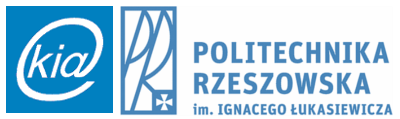
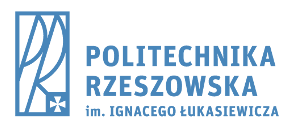
Updated Rzeszow team

diff --git a/rzeszow.html b/rzeszow.html
@@ -238,14 +238,19 @@ Steps to show on site
        <h3>Partners</h3>
 
        <p>Rails Girls Rzeszów is co-organized with our awesome partners.</p><p>
-         <p>Want to help? We're looking for partners & sponsors for the non-profit event! <a href="mailto:railsgirlsrze@gmail.com>">Email us</a>! </p>
+         <p>Want to help? We're looking for partners & sponsors for the non-profit event! <a href="mailto:railsgirlsrze@gmail.com>">Email us</a>!
+        </p>
+
+       <p>
+         <a href="http://www.kia.prz-rzeszow.pl/" style="float:right; margin:0 0 0; border:0;"><img src="./images/rzeszow/kia.png" alt="Department of Computer and Control Engineering"></a>
+         The event will take place at <a href="https://portal.prz.edu.pl/">Rzeszów University of Technology</a> main building thanks to <a href="http://www.kia.prz-rzeszow.pl/">Department of Computer and Control Engineering</a>.
+       </p>
 
        <h4>Venue</h4>
        <p>
-         <img src="./images/rzeszow/prz.png" alt="Rzeszów University of Technology">
-       </p>
-       <p>
-         The event will take place at <a href="https://portal.prz.edu.pl/">Rzeszów University of Technology</a> main building thanks to <a href="http://www.kia.prz-rzeszow.pl/">Department of Computer and Control Engineering</a>.
+          <a href="https://portal.prz.edu.pl/" style="margin:0 0 0; border:0;">
+            <img src="./images/rzeszow/prz.png" alt="Rzeszów University of Technology">
+          </a>
        </p>
 
        <h4>Sponsors</h4>
@@ -268,7 +273,7 @@ Steps to show on site
        </p>
        <p>
          <strong>I know how to program - How can I help?</strong>
-         We’re also looking for people to be coaches. <a href="mailto:railsgirlsrze@gmail.com>">Email us</a>
+         We’re also looking for people to be coaches. <a href="mailto:railsgirlsrze@gmail.com">Email us</a>
        </p>
 
 
@@ -289,6 +294,21 @@ Steps to show on site
         <a href="https://twitter.com/mjrzasa" class="grid_3">
             Maciek Rząsa, coach
             <small>@mjrzasa</small>
+        </a>
+
+        <a href="https://twitter.com/mbie" class="grid_3">
+            Mateusz, coach
+            <small>@mbie</small>
+        </a>
+
+        <a href="https://twitter.com/PawelCylo" class="grid_3">
+            Paweł Cyło, coach
+            <small>@PawelCylo</small>
+        </a>
+
+        <a href="https://twitter.com/railsgirls_rze" class="grid_3">
+            Agnieszka Sokołowska, designer
+            <small>@railsgirls_rze</small>
         </a>
 
       </div>
